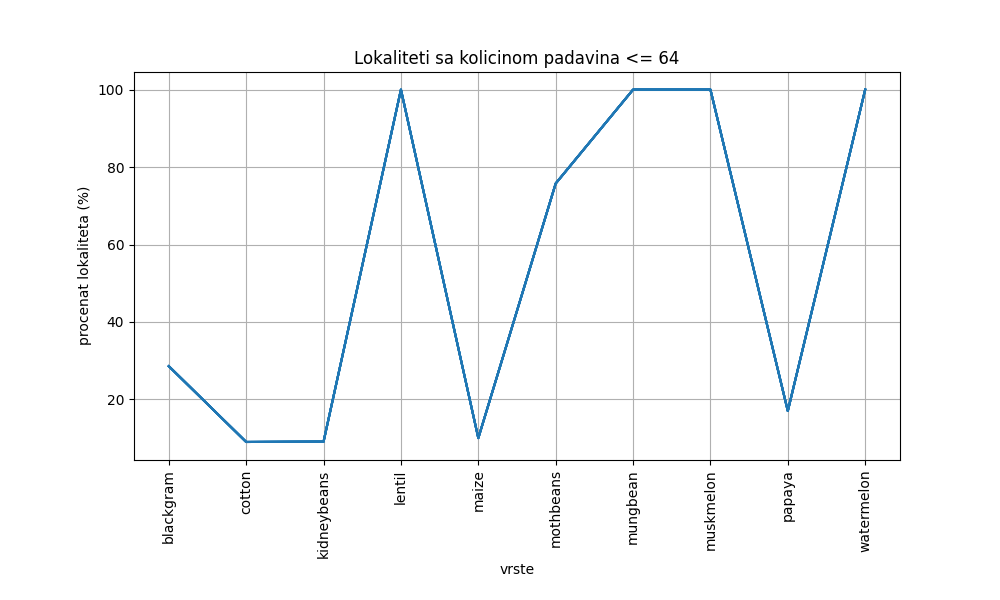
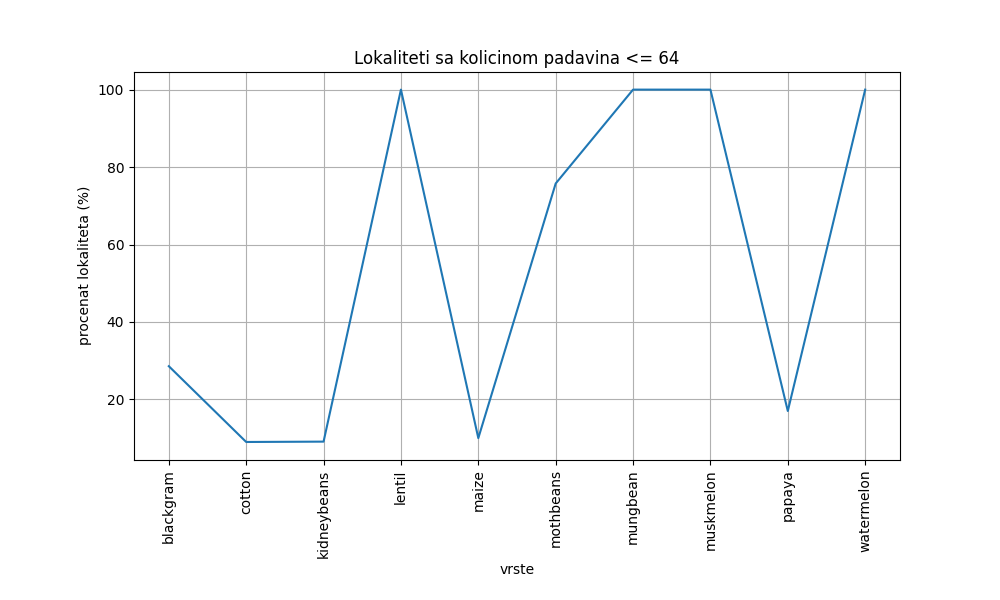
Add comments.

diff --git a/main.py b/main.py
@@ -50,13 +50,15 @@ def padavine(data_set):
     vrste_padavine = data_set.loc[data_set['padavine']<=granica]
 
     val = np.intersect1d(data_set.vrsta,vrste_padavine.vrsta)
-    temp = data_set[data_set.vrsta.isin(val)]
-    ukupan_broj_lokaliteta = temp.groupby('vrsta').count()
-    broj_lokaliteta = (vrste_padavine.groupby('vrsta').count())/ukupan_broj_lokaliteta*100
+    temp = data_set[data_set.vrsta.isin(val)]   # izdvajamo redove za vrste koje se nalaze u vrste padavina
+    ukupan_broj_lokaliteta = temp.groupby('vrsta').count() # racunamo ukupan broj lokaliteta na kojima vrste uspijevaju
+    broj_lokaliteta = (vrste_padavine.groupby('vrsta').count())/ukupan_broj_lokaliteta*100 
+    
+    # procenat lokaliteta sa malim brojem padavina u odnosu na ukupan broj lokaliteta za svaku vrstu
 
     plt.figure(figsize=[10,6])
     plt.title('Lokaliteti sa kolicinom padavina <= %i' %granica)
-    plt.plot(broj_lokaliteta,color='C0')
+    plt.plot(broj_lokaliteta.padavine,color='C0')
 
     plt.subplots_adjust(bottom=0.234,left=0.134)
     plt.grid(True)
@@ -254,4 +256,4 @@ def vlaznost(data_set):
     plt.savefig('vlaznost')
     plt.show()
 
-ph_vrijednost(df)
+padavine(df)
